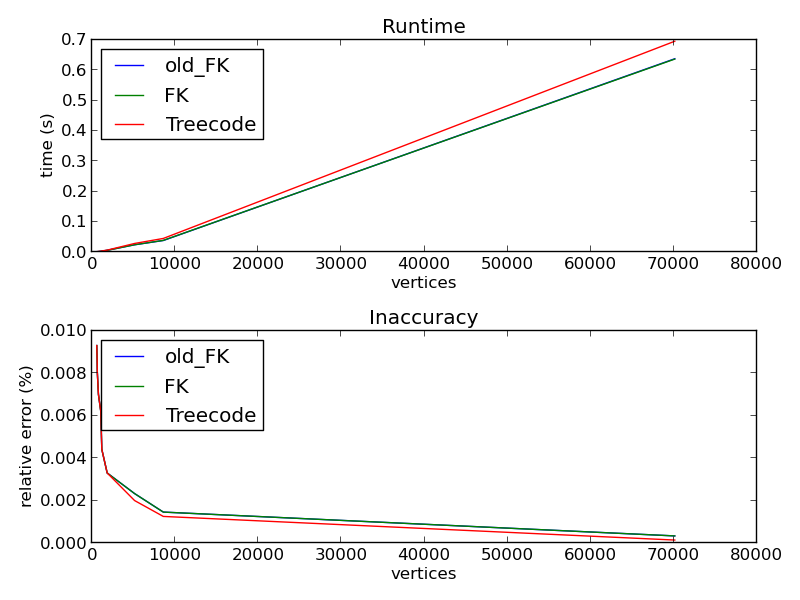
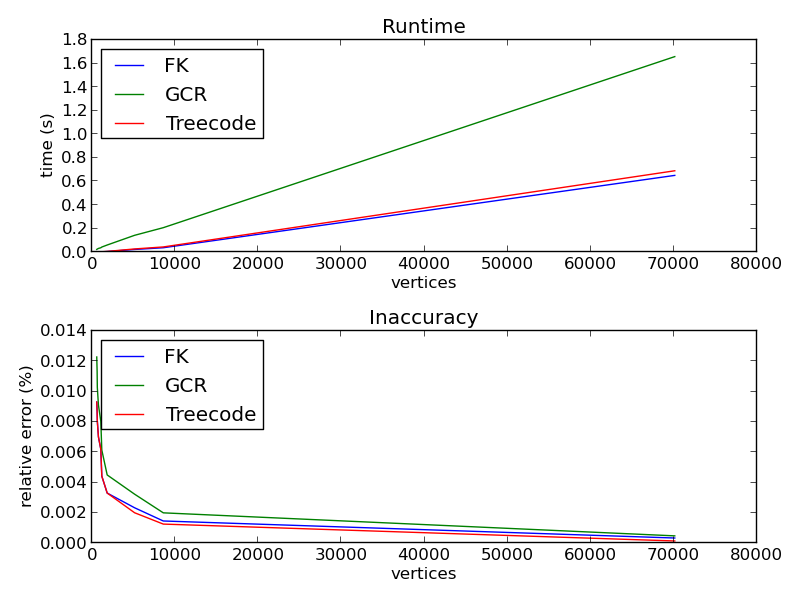
added GCR to benchmark

diff --git a/src/finmag/energies/demag/benchmark.py b/src/finmag/energies/demag/benchmark.py
@@ -13,12 +13,12 @@ Ms = 1
 H_ref = np.array((- Ms / 3.0, 0, 0))
 
 vertices = []
-solvers = ["FK", "Treecode"]
+solvers = ["FK", "GCR", "Treecode"]
 timings = [[], [], []]
 errors = [[], [], []]
 
 for maxh in maxhs:
-    mesh = sphere(r = radius, maxh = maxh)
+    mesh = sphere(r=radius, maxh=maxh)
     vertices.append(mesh.num_vertices())
     S3 = df.VectorFunctionSpace(mesh, "Lagrange", 1)
     m = df.Function(S3)
